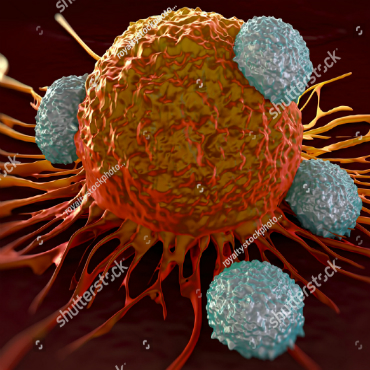
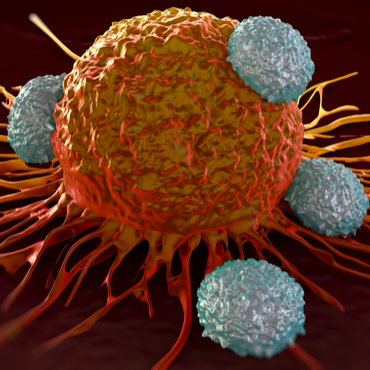
added bought images and changed text

diff --git a/science.html b/science.html
@@ -36,7 +36,7 @@
                 <!-- Section -->
                 <section id="one" class="main">
 						<header class="accent2">
-							<h2><b>Innovation through Immunology</b></h2>
+							<h2><b>Innovation Through Immunology</b></h2>
                         </header>
                         <br/>
                 <ul class="tabs">
@@ -79,7 +79,7 @@
                                                 <p>Cugene utilizes sophisticated novel cell-based assays to create therapeutics with the highest <span>efficacy</span></p>
                                         </li>
                                 </ul>
-                                <span class="image"><img src="images/image1size.jpg" alt="" /></span>
+                                <span class="image"><img src="images/image1science.jpg" alt="" /></span>
                                 <ul>
                                     <li>
                                         <h4>Safety</h4>

diff --git a/assets/css/main.css b/assets/css/main.css
@@ -1986,7 +1986,10 @@
 	}
 
 	strong, b {
-		color: #3b3b3b;
+		/* color: #fe7246; */
+		color:#fff;
+		text-shadow: 2px 2px 6px #414141;
+
 	}
 
 	h1, h2, h3, h4, h5, h6 {
@@ -2158,9 +2161,9 @@
 		input[type="button"].special,
 		button.special,
 		.button.special {
-			background-color: #3c72ab;
+			background-color: #ffffff;
 			box-shadow: none;
-			color: #ffffff !important;
+			color: #3c72ab !important;
 		}
 
 			input[type="submit"].special:hover,

diff --git a/index.html b/index.html
@@ -43,7 +43,7 @@
 								<p></p>
 							</header>
 							<ul class="actions">
-								<li><a href="#one" class="button big wide scrolly">Learn More</a></li>
+								<li><a href="#one" class="button special fit big wide scrolly">Learn More</a></li>
 							</ul>
 						</div>
 						<div class="content secondary">
